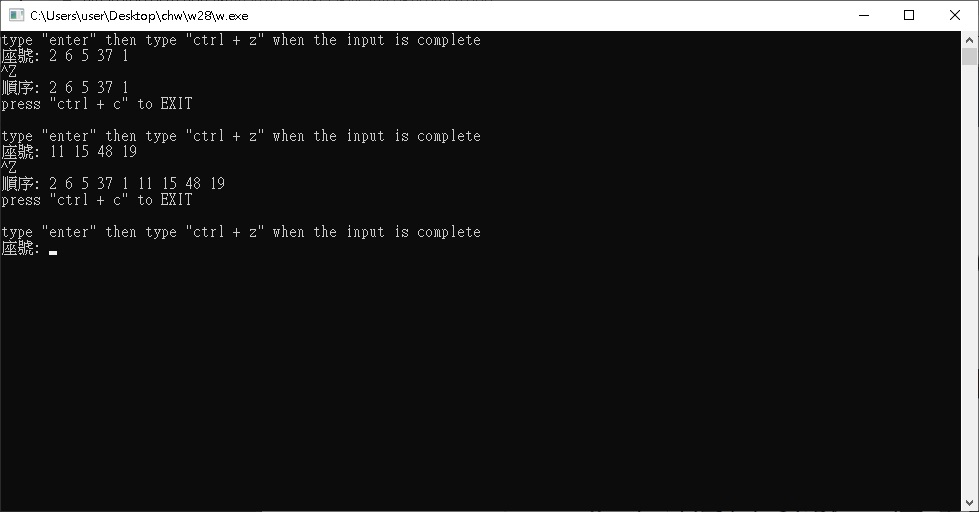
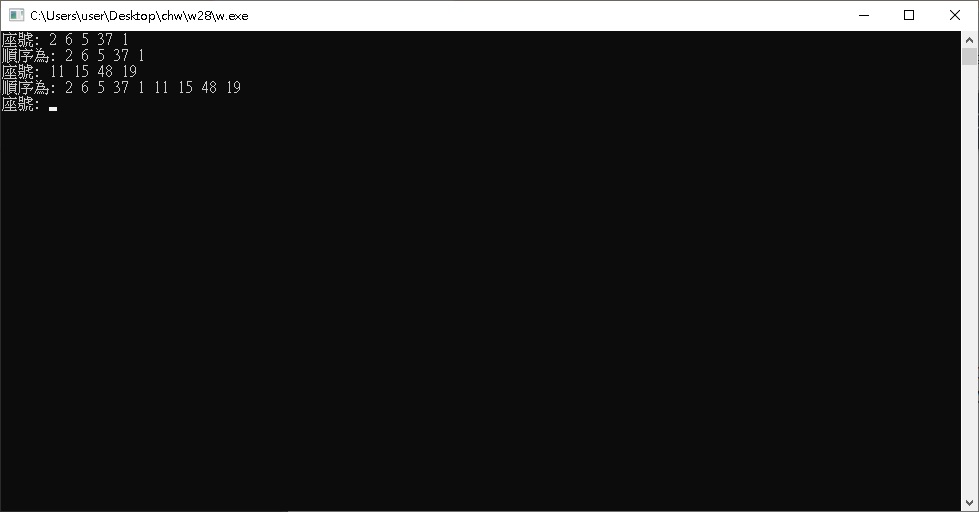
31

diff --git a/w28/w.c b/w28/w.c
@@ -12,31 +12,37 @@ void creat(queue *, int);
 int isEmptyQ(queue *);
 int isFullQ(queue *);
 int AddQ(queue *, int);
-char DeleteQ(queue *);
+int DeleteQ(queue *);
 
 int main(){
     queue student;
     creat(&student, MAX);
-    int number[MAX] = {0};
+
+    char number[MAX] = {'\0'};
     int order[MAX] = {0};
+
+    char *token;
+
     int i = 0, j = 0;
+    int k;
 
     while(1){
-        printf("type \"enter\" then type \"ctrl + z\" when the input is complete\n");
         printf("座號: ");
-        while(scanf("%d", &number[i])!=EOF){
-            AddQ(&student, number[i++]);
+        gets(number);
+
+        token = strtok(number," ");
+        while (token != NULL){
+            AddQ(&student, strtol(token, NULL, 10));
+            token = strtok (NULL, " ");
         }
 
-        while(!isEmptyQ(&student)){
+        while(!isEmptyQ(&student))
             order[j++] = DeleteQ(&student);
-        }
 
-        printf("順序: ");
-        int k = 0;
-        while(order[k]!=0)
-            printf("%d ", order[k++]);
-        printf("\npress \"ctrl + c\" to EXIT\n\n");
+        printf("順序為: ");
+        for(k = 0; order[k]!=0; ++k)
+            printf("%d ", order[k]);
+        printf("\n");
     }
 
     system("pause");
@@ -67,7 +73,7 @@ int AddQ(queue *q, int t){
     }
 }
 
-char DeleteQ(queue *q){
+int DeleteQ(queue *q){
     int tmp = q->array[++q->front];
     if(q->front!=-1){ //把所有資料前移
         int i;
